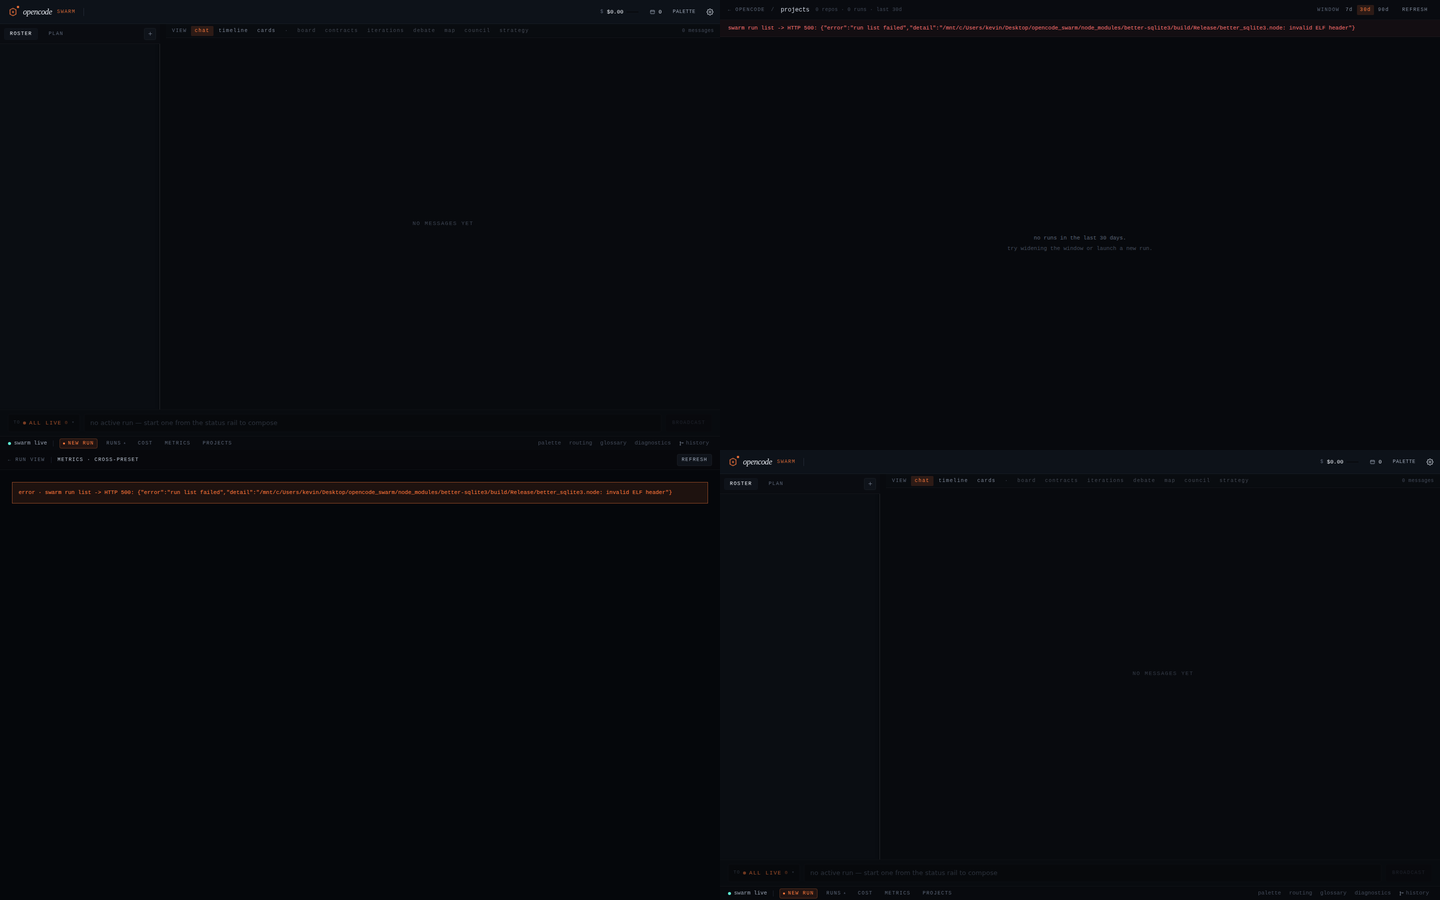
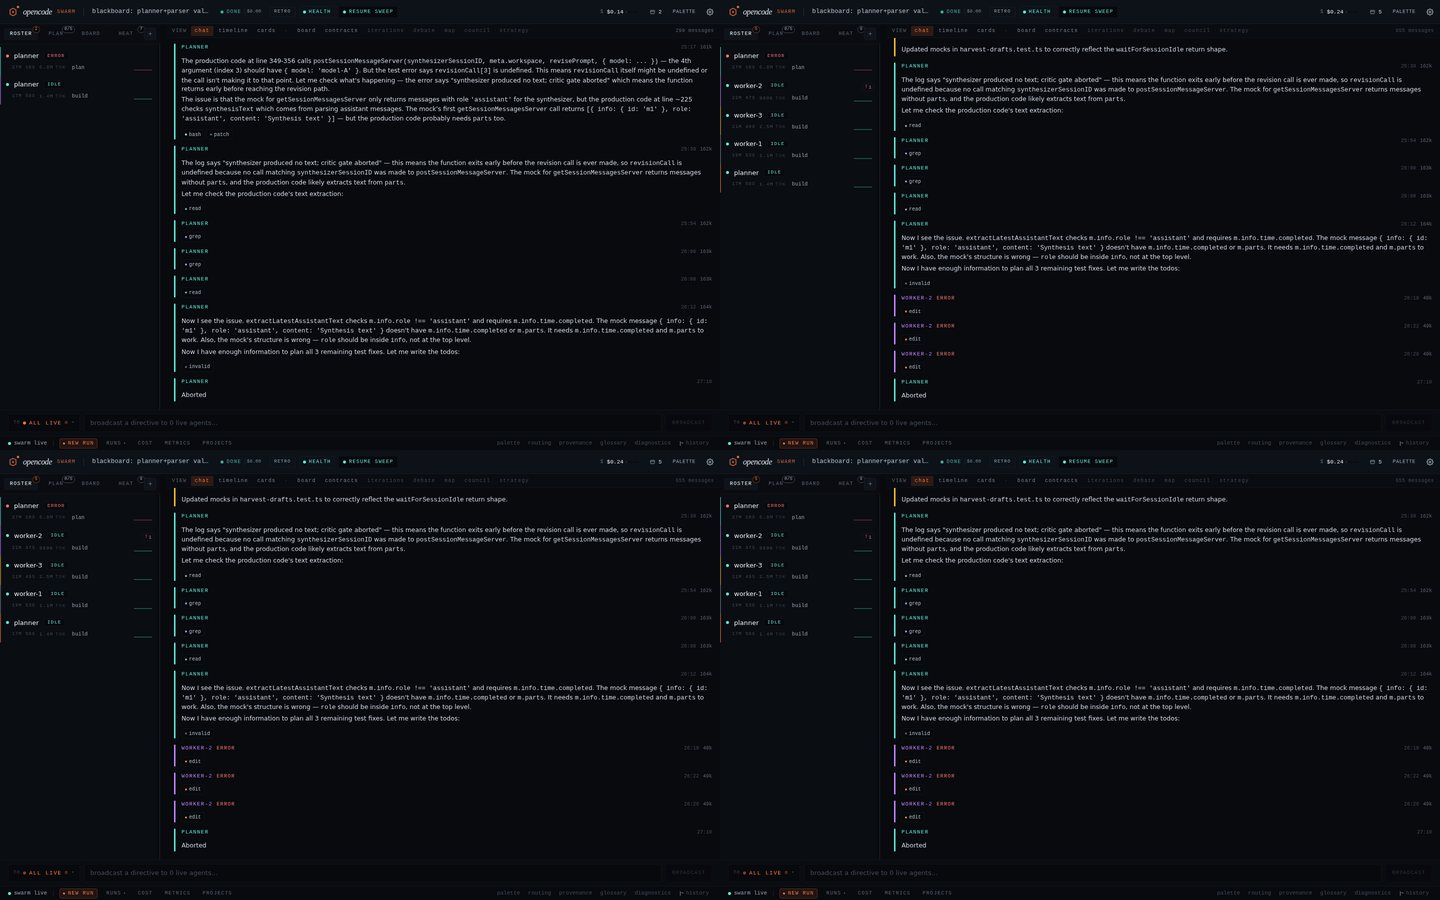
docs: clean screenshots from completed run with real board data
- 4 captures from run_mowhf24a_8h62fc (11.7M tokens, $0.24, 18/19 todos)
- Shows: 2D timeline, board rail with items, plan tab, topbar with stats
- 2x2 tile at 1440x900
- Replaced error-tainted previous captures

diff --git a/README.md b/README.md
@@ -22,14 +22,14 @@ Built for keyboard-first developers who want to read a 5-agent run as easily as 
 ## Screenshots
 
 <p align="center">
-  <img src="public/screenshots/tile-2x2-live.png" alt="opencode_swarm highlights — live run" width="800" />
+  <img src="public/screenshots/tile-2x2.png" alt="opencode_swarm — completed blackboard run" width="800" />
 </p>
 
-*Above: 4 captures during a live blackboard run on the ollama_swarm codebase (2 workers, GLM planner + GEMMA worker, $0.50 cap)*
+*Above: 4 captures from a completed blackboard run (`run_mowhf24a_8h62fc`, 11.7M tokens, $0.24, 18/19 todos done)*
 
 | Top-left: 2D Timeline | Top-right: Board Rail |
 |:---:|:---:|
-| Bottom-left: Plan Tab | Bottom-right: Topbar + Live Status |
+| Bottom-left: Plan Tab | Bottom-right: Topbar + Stats |
 
 ### Key features visible
 
